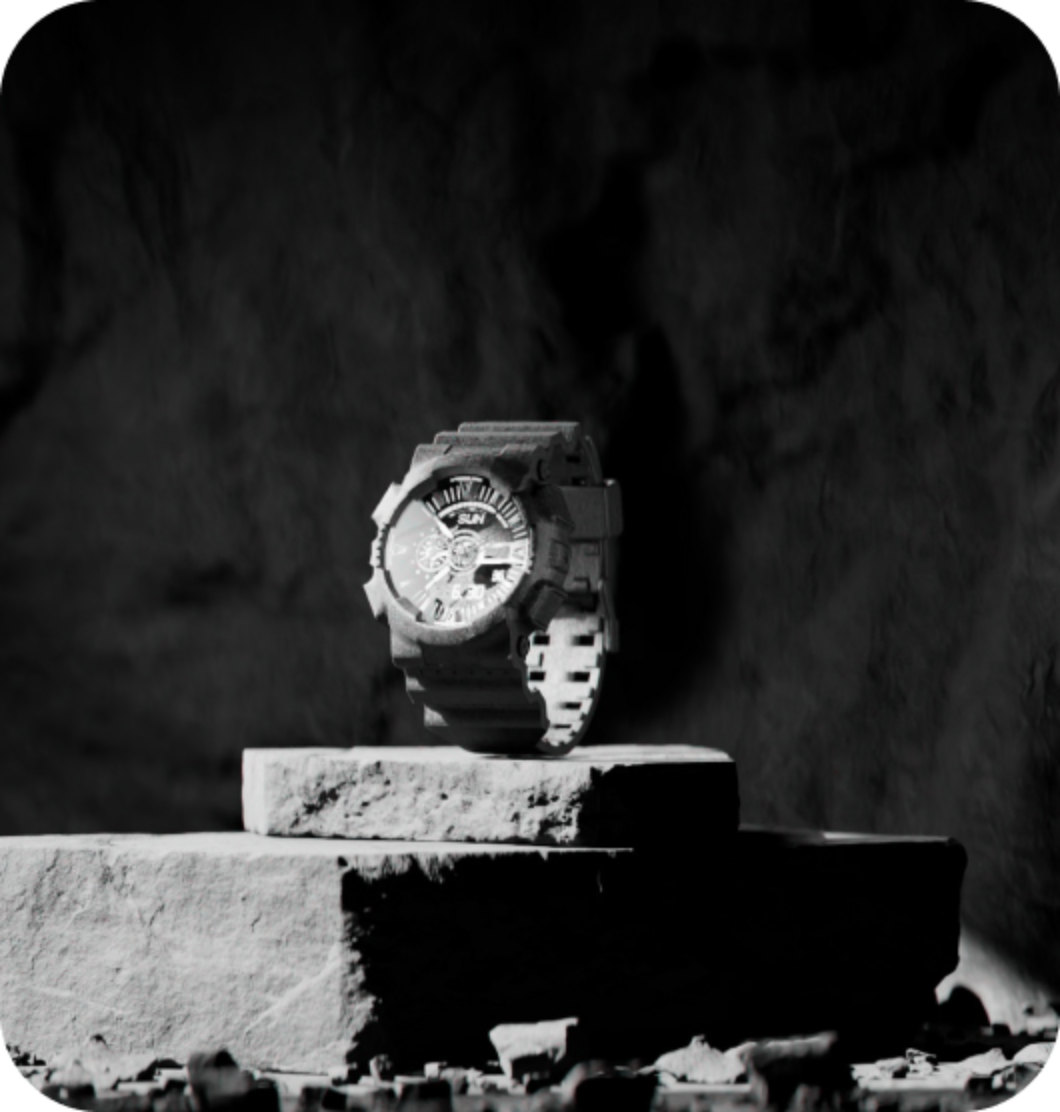
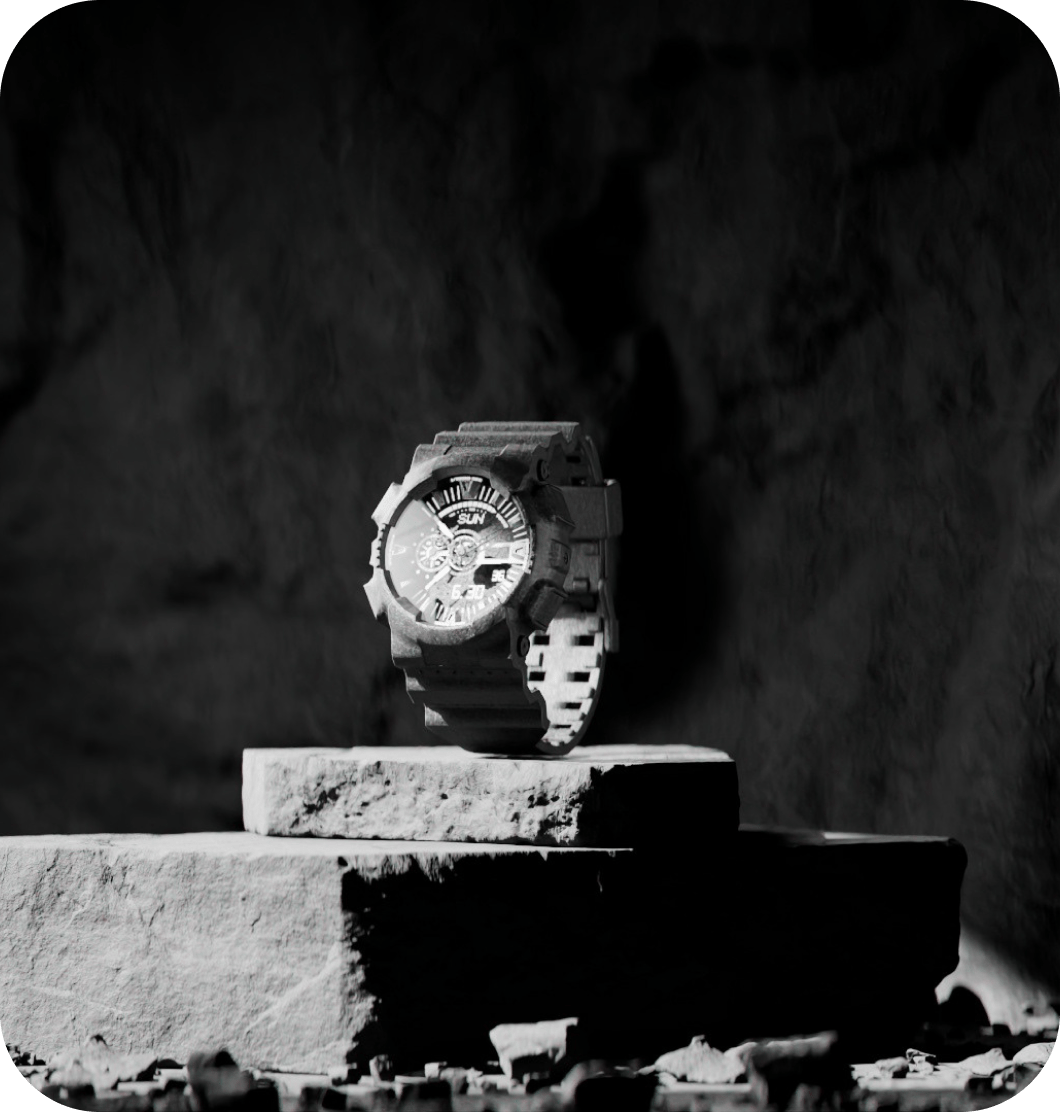
fix images optimization

diff --git a/src/partials/contact-us.html b/src/partials/contact-us.html
@@ -64,25 +64,25 @@
         <source
           media="(min-width: 1280px)"
           srcset="
-            ./img/contact/contact-desk.png    1x,
+            ./img/contact/contact-desk@1x.png 1x,
             ./img/contact/contact-desk@2x.png 2x
           "
         />
         <source
           media="(min-width: 768px)"
           srcset="
-            ./img/contact/contact-tablet.png    1x,
+            ./img/contact/contact-tablet@1x.png 1x,
             ./img/contact/contact-tablet@2x.png 2x
           "
         />
         <source
           media="(max-width: 767px)"
           srcset="
-            ./img/contact/contact-mob.png    1x,
+            ./img/contact/contact-mob@1x.png 1x,
             ./img/contact/contact-mob@2x.png 2x
           "
         />
-        <img src="./img/contact/contact-mob.png" alt="contact-watch" />
+        <img src="./img/contact/contact-mob@1x.png" alt="contact-watch" />
       </picture>
     </div>
   </div>

diff --git a/src/css/modal-menu.css b/src/css/modal-menu.css
@@ -29,7 +29,7 @@
       rgba(12, 12, 12, 0.92),
       rgba(12, 12, 12, 0.92)
     ),
-    url(/src/img/menu/mobile-menu-bg.jpg);
+    url(../img/menu/mob-menu-bg@1x-min.png);
   background-repeat: no-repeat;
   background-position: center;
   background-size: cover;
@@ -44,7 +44,7 @@
         rgba(12, 12, 12, 0.92),
         rgba(12, 12, 12, 0.92)
       ),
-      url(/src/img/menu/mobile-menu-bg@2x.jpg);
+      url(../img/menu/mob-menu-bg@2x-min.png);
   }
 }
 
@@ -145,7 +145,7 @@
         rgba(12, 12, 12, 0.92),
         rgba(12, 12, 12, 0.92)
       ),
-      url(/src/img/menu/tablet-menu-bg.jpg);
+      url(../img/menu/tab-menu-bg@1x-min.png);
   }
 
   .menu-container {
@@ -185,7 +185,7 @@
         rgba(12, 12, 12, 0.92),
         rgba(12, 12, 12, 0.92)
       ),
-      url(/src/img/menu/tablet-menu-bg@2x.jpg);
+      url(../img/menu/tab-menu-bg@2x-min.png);
   }
 }
 

diff --git a/src/partials/catalog.html b/src/partials/catalog.html
@@ -146,7 +146,7 @@
           <p class="watch-model-price">€380</p>
         </div>
       </li>
-      <li class="catalog-item catalog-item-none">
+      <li class="catalog-item">
         <div class="catalog-set">
           <picture>
             <source
@@ -174,7 +174,7 @@
           <p class="watch-model-price">€400</p>
         </div>
       </li>
-      <li class="catalog-item catalog-item-none">
+      <li class="catalog-item">
         <div class="catalog-set">
           <picture>
             <source

diff --git a/src/css/catalog.css b/src/css/catalog.css
@@ -1,5 +1,6 @@
 @media only screen and (max-width: 767px) {
-  .catalog-item-none {
+  .catalog-item:nth-child(5),
+  .catalog-item:nth-child(6) {
     display: none;
   }
 }
